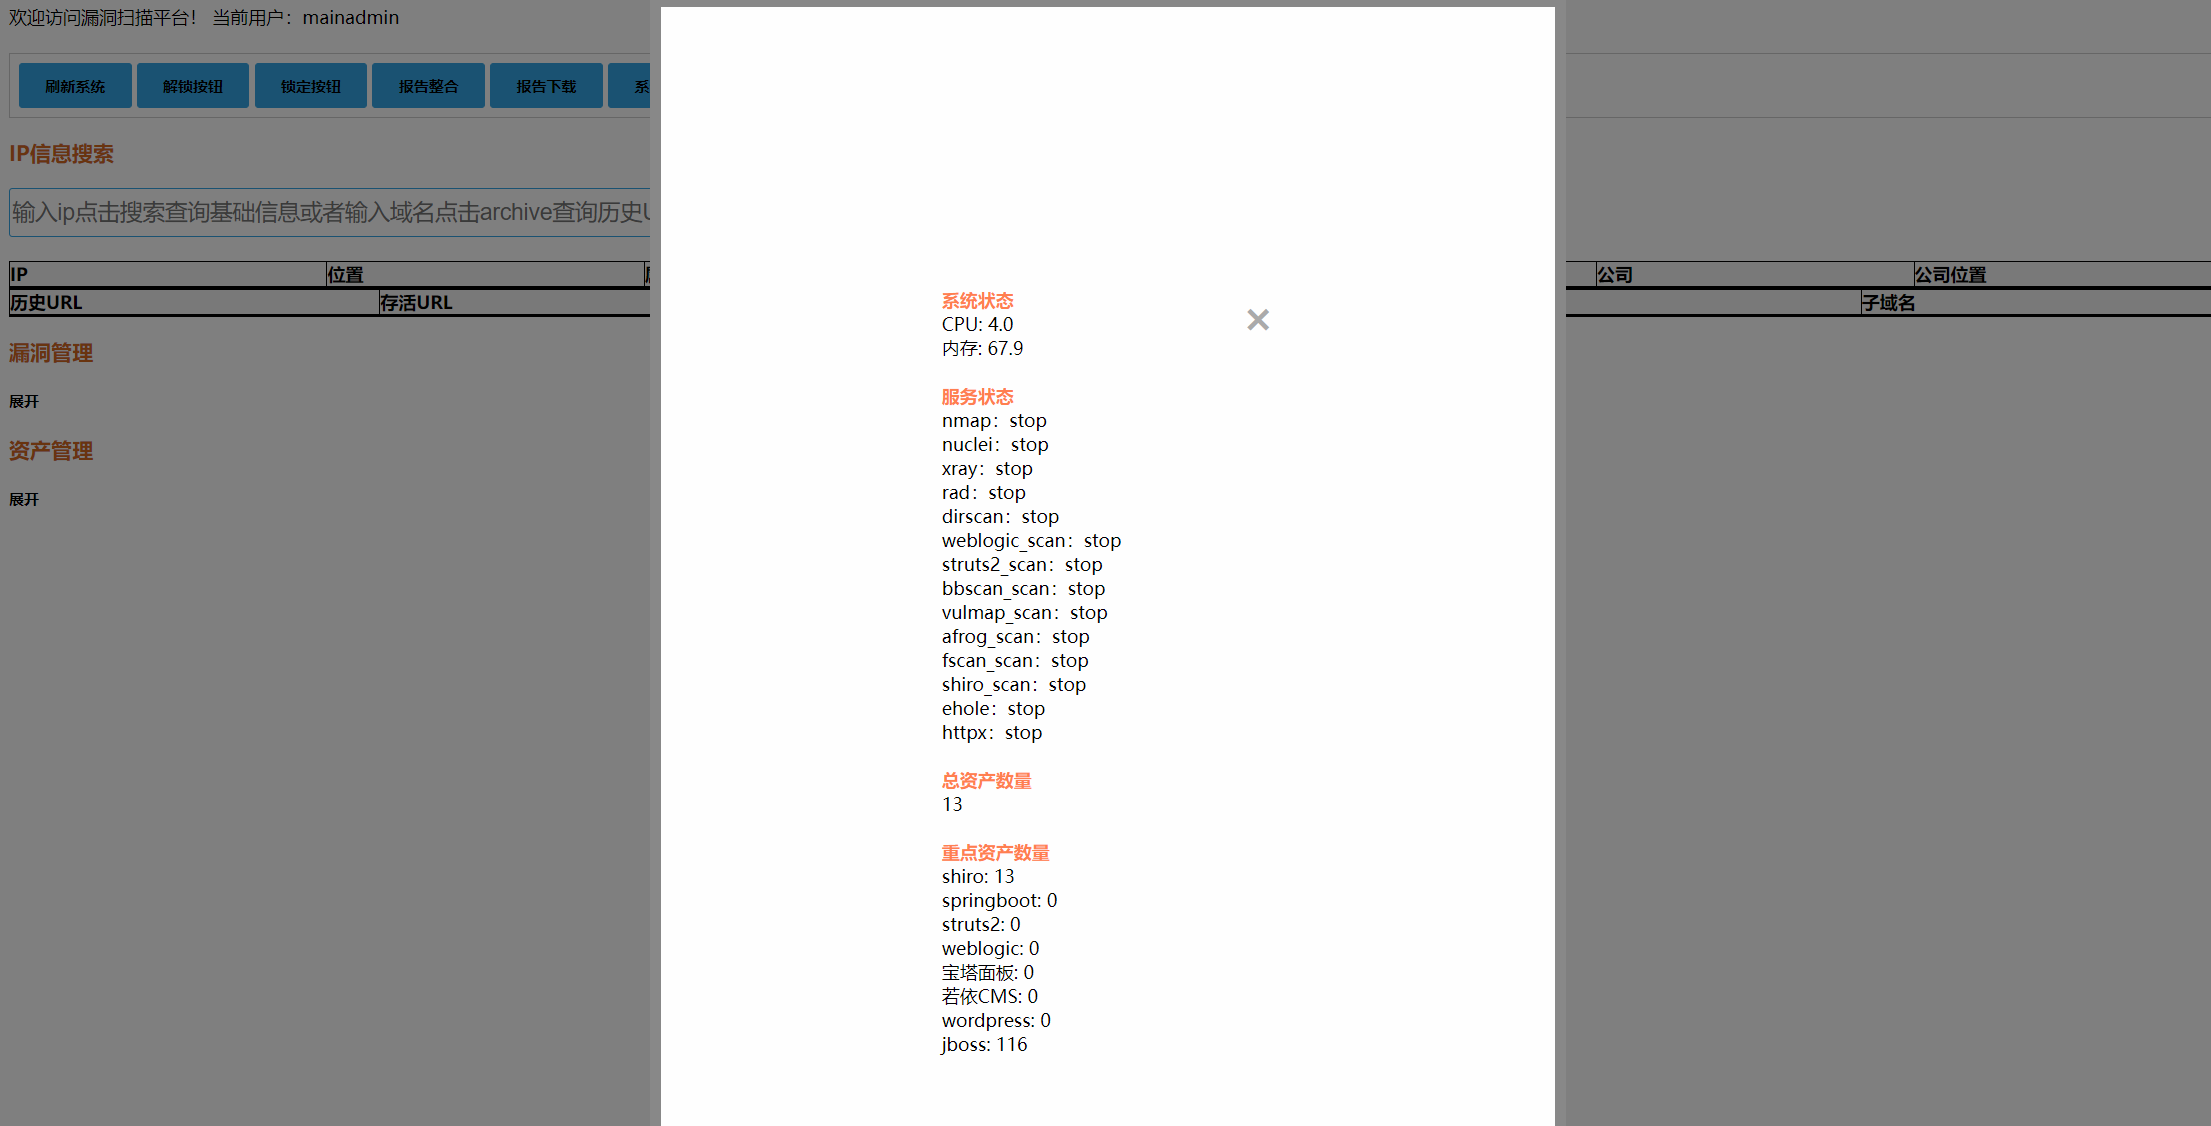
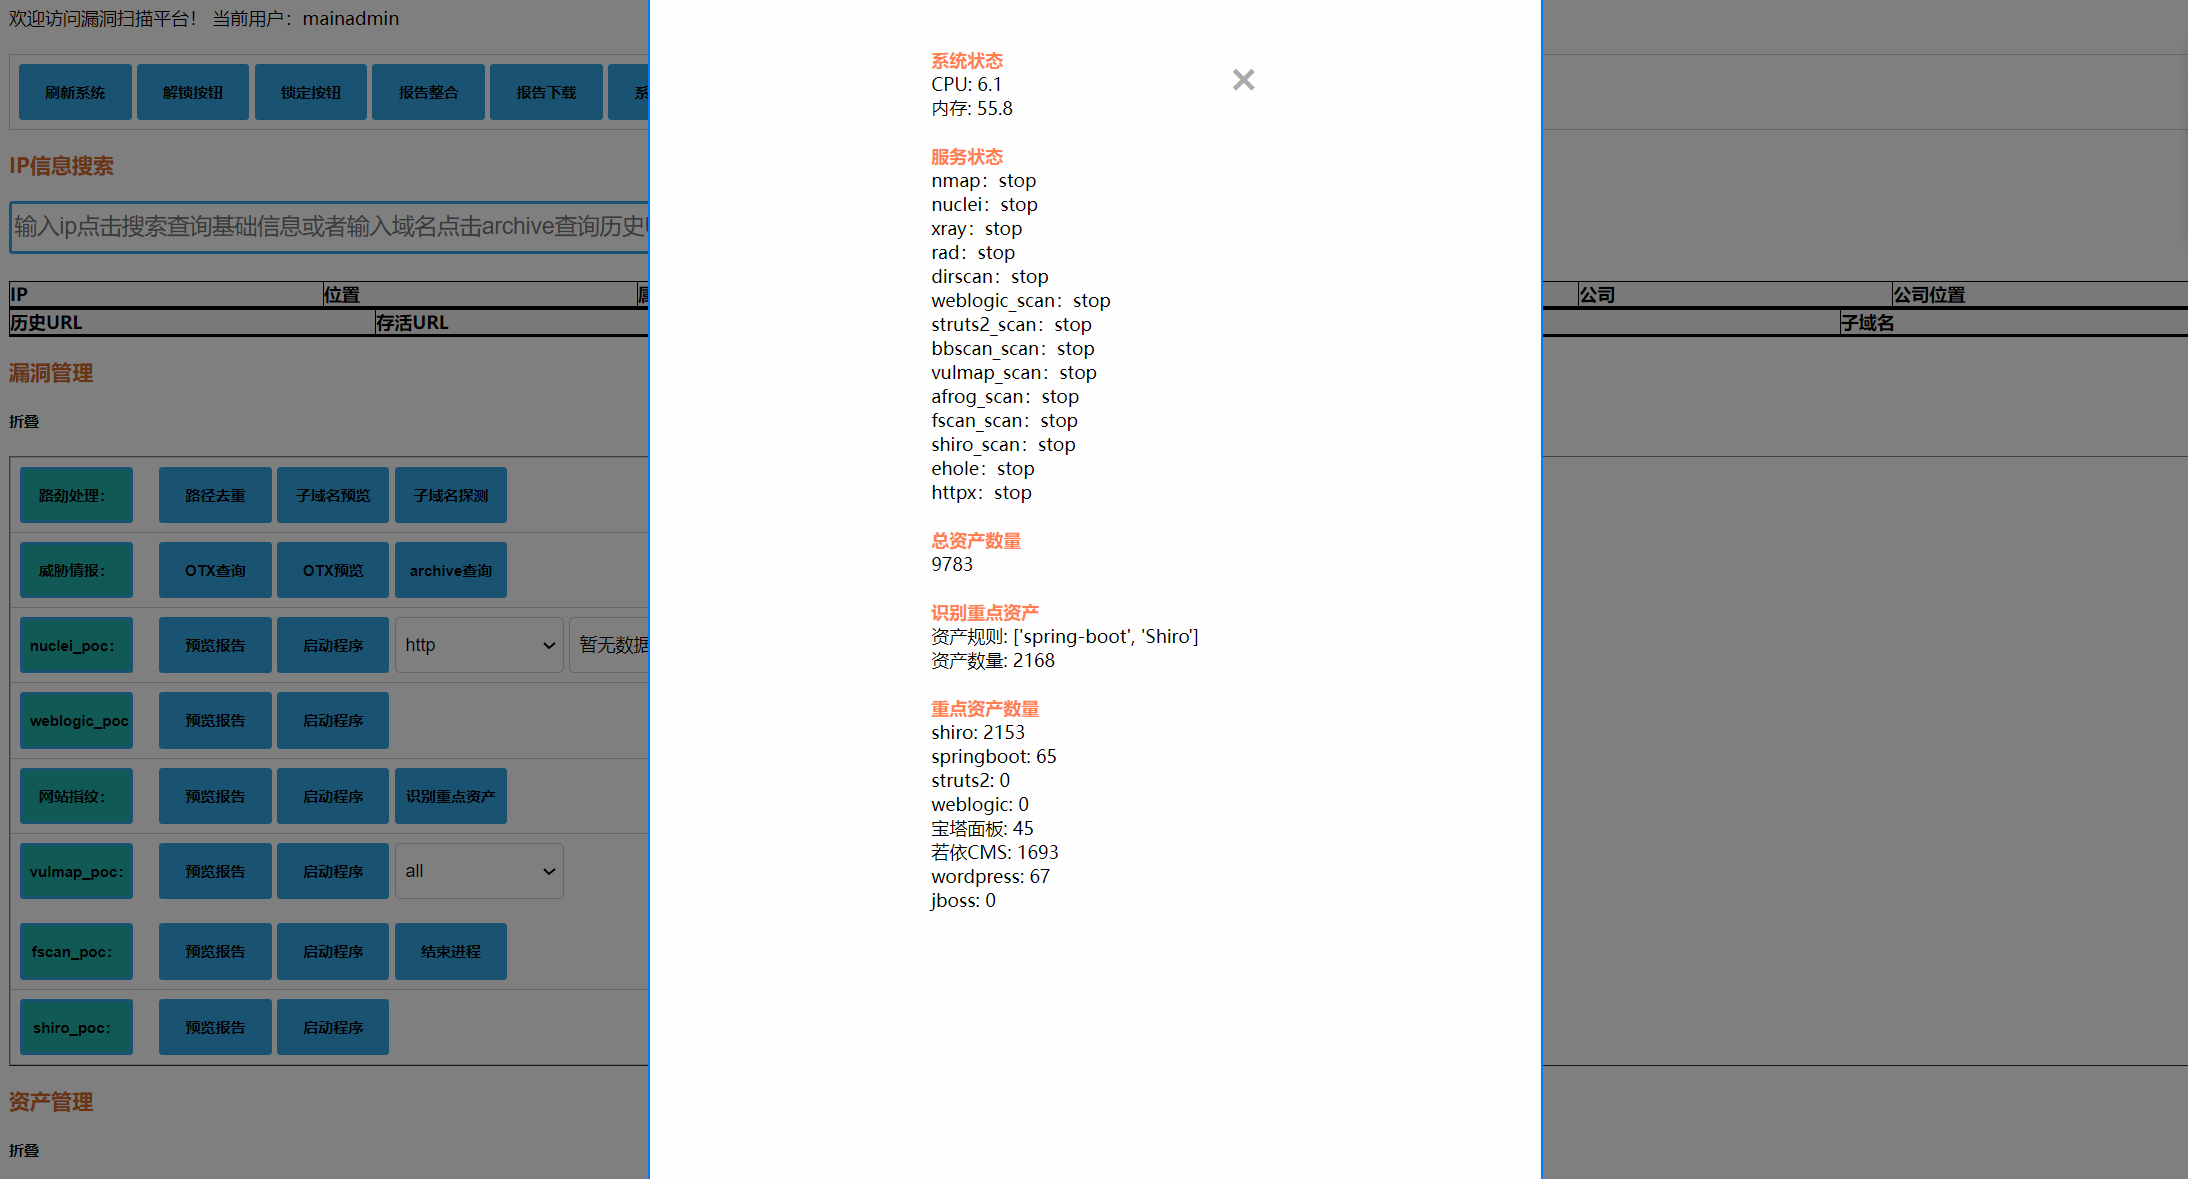
重点资产识别优化，已知问题处理

diff --git a/static/js/common.js b/static/js/common.js
@@ -1002,7 +1002,7 @@ function batchshirovulnfunc() {
 }
 
 
-//重点资产提取
+//识别重点资产
 function key_data_tiqu_func() {
     $.ajax({
         url: '/key_assets_withdraw/',
@@ -1010,18 +1010,22 @@ function key_data_tiqu_func() {
 
         success: function (res) {
             console.log(res)
-            console.log('已经按照自定义规则提取重点资产，点击文本框赋值查看最新资产')
         },
         error: function () {
             alert('内部出错')
         },
         complete: function () {
-            alert('已经按照自定义规则提取重点资产，点击文本框赋值查看最新资产')
+           
         }
+    })
+    $.getJSON("/key_assets_withdraw/",
+        function (info) {
+            alert(info.key_assets_result)
     })
 }
 
 
+// 系统管理
 function openModal() {  
     var modal = document.getElementById("modal");  
     modal.style.display = "block";
@@ -1052,10 +1056,13 @@ function openModal() {
         document.getElementById("spp23").innerHTML = info.cpuinfo;
         document.getElementById("spp24").innerHTML = info.memoryinfo;
         document.getElementById("spp25").innerHTML = info.jboss_num;
+        document.getElementById("spp26").innerHTML = info.key_asset_rule;
+        document.getElementById("spp27").innerHTML = info.current_key_asset_num;
     })
 
 }  
   
+// 关闭系统管理
 function closeModal() {  
     var modal = document.getElementById("modal");  
     modal.style.display = "none";  

diff --git a/templates/index.html b/templates/index.html
@@ -51,6 +51,9 @@
 			<span id="spp13"></span><br><br>
 			<strong style="color:coral">总资产数量</strong><br>
 			<span id="spp14"></span><br><br>
+			<strong style="color:coral">识别重点资产</strong><br>
+			<span id="spp26"></span><br>
+			<span id="spp27"></span><br><br>
 			<strong style="color:coral">重点资产数量 </strong><br>
 			<span id="spp16"></span><br>
 			<span id="spp17"></span><br>

diff --git a/scan_main_web.py b/scan_main_web.py
@@ -34,6 +34,7 @@ from config import ruoyi_rule
 from config import struts2_rule
 from config import WordPress_rule
 from config import jboss_rule
+from config import finger_list
 
 import psutil
 
@@ -369,6 +370,12 @@ def systemmanagement():
         # 计算内存占用百分比  
         memory_percent = mem.percent  
 
+        # 资产规则
+        key_asset_rule = str(finger_list)
+
+        # 当前自查数量
+        url_file_current_num = os.popen('bash ./finger.sh current_url_file_num').read()
+
         message_json = {
             "nmapstatus":nmapstatus,
             "nucleistatus":nucleistatus,
@@ -394,7 +401,9 @@ def systemmanagement():
             "WordPress_num":"wordpress: "+str(WordPress_num),
             "cpuinfo":"CPU: "+str(cpu_percent),
             "memoryinfo":"内存: "+str(memory_percent),
-            "jboss_num":"jboss: "+str(jboss_num)
+            "jboss_num":"jboss: "+str(jboss_num),
+            "key_asset_rule":"资产规则: "+str(key_asset_rule),
+            "current_key_asset_num":"资产数量: "+str(url_file_current_num)
         }
         return jsonify(message_json)
     else:
@@ -1016,20 +1025,82 @@ def startshirointerface():
         return render_template('login.html')
     
 
-#重点资产提取
+#识别重点资产
 @app.route("/key_assets_withdraw/")
 def key_assets_withdraw():
     user = session.get('username')
     if str(user) == main_username:
-        try:
-            key_url_list = basic.key_point_tiqu()
-            f = open(file='/TIP/batch_scan_domain/url.txt',mode='w')
-            for line in key_url_list:
-                f.write(str(line)+"\n")
-            f.close()
-        except Exception as e:
-            print("捕获到异常:", e)
-        return render_template('index.html')
+        eholestatus = os.popen('bash ./finger.sh ehole_status').read()
+        if "running" in eholestatus:
+            key_assets_result = "指纹识别接口正在运行中请稍后再进行识别重点资产"
+        else:
+
+            # 根据config.py中finger_list配置进行识别，可在finger_list列表中配置多个，最终写入到全局资产文件url.txt中
+            try:
+                key_url_list = basic.key_point_tiqu()
+                f = open(file='/TIP/batch_scan_domain/url.txt',mode='w')
+                for line in key_url_list:
+                    f.write(str(line)+"\n")
+                f.close()
+            except Exception as e:
+                print("捕获到异常:", e)
+
+            # 根据config.py中*_rule配置进行识别，只能配置一个关键字，最终写入到单个重点资产文件中，用于指定扫描器调用扫描
+            # ①、写入shiro文件
+            try:
+
+                shiro_file_list = basic.key_point_assets_file(Shiro_rule)
+                f_shiro = open(file='/TIP/info_scan/result/keyasset/shiro_file.txt',mode='w')
+                for shiro_line in shiro_file_list:
+                    f_shiro.write(str(shiro_line)+"\n")
+                f_shiro.close()
+            except Exception as e:
+                print("捕获到异常:", e)
+
+            # ②、写入springboot文件
+            try:
+
+                springboot_file_list = basic.key_point_assets_file(SpringBoot_rule)
+                f_springboot = open(file='/TIP/info_scan/result/keyasset/springboot_file.txt',mode='w')
+                for springboot_line in springboot_file_list:
+                    f_springboot.write(str(springboot_line)+"\n")
+                f_springboot.close()
+            except Exception as e:
+                print("捕获到异常:", e)
+
+
+             # ③、写入struts2文件
+            try:
+
+                struts2_file_list = basic.key_point_assets_file(struts2_rule)
+                f_struts2 = open(file='/TIP/info_scan/result/keyasset/struts2_file.txt',mode='w')
+                for struts2_line in struts2_file_list:
+                    f_struts2.write(str(struts2_line)+"\n")
+                f_struts2.close()
+            except Exception as e:
+                print("捕获到异常:", e)
+
+
+              # ④、写入weblogic文件
+            try:
+
+                weblogic_file_list = basic.key_point_assets_file(weblogic_rule)
+                f_weblogic = open(file='/TIP/info_scan/result/keyasset/weblogic_file.txt',mode='w')
+                for weblogic_line in weblogic_file_list:
+                    f_weblogic.write(str(weblogic_line)+"\n")
+                f_weblogic.close()
+            except Exception as e:
+                print("捕获到异常:", e)
+
+
+            key_assets_result = "已成功识别出重点资产"
+
+        
+        message_json = {
+            "key_assets_result":key_assets_result
+        }
+        return jsonify(message_json)
+        
     else:
         return render_template('login.html')
 

diff --git a/basic.py b/basic.py
@@ -569,3 +569,52 @@ def key_point_assets_num(assets_finger_list):
         assets_len = len(finger_url_list_final_uniq)
     
     return assets_len
+
+
+
+
+# 识别重点资产存入文件
+def key_point_assets_file(assets_finger_list):
+    # 提取通过自定义列表过滤出的目标，并提取这些目标的关键字作为字典，存入列表中
+    filter_list_result = []
+    try:
+        for i in assets_finger_list:
+            result = os.popen('bash /TIP/info_scan/finger.sh finger_filter_shell'+' '+i).read()
+            filter_list_result.append(result)
+    except Exception as e:
+        print("捕获到异常:", e)
+
+    try:
+        f2 = open(file='/TIP/info_scan/result/finger_filter_text.txt', mode='w')
+        for j in filter_list_result:
+            j1 = j.replace("[","")
+            j2 = j1.replace("]","")
+            j3 = j2.replace("|","")
+            f2.write(str(j3))
+        f2.close()
+    except Exception as e:
+        print("捕获到异常:", e)
+    
+    try:
+        filter_list_result_final = []
+        f3 = open("/TIP/info_scan/result/finger_filter_text.txt",encoding='utf-8')
+        for k in f3.readlines():
+            #页面显示优化
+            pattern = re.compile(r'\x1b\[[0-9;]*m')
+            clean_text = pattern.sub('', k)
+            clean_text_1 = clean_text.replace("\x1b38;2;237;64;35m ","")
+            clean_text_2 = clean_text_1.replace(" \x1b0m","")
+            filter_list_result_final.append(clean_text_2.strip())
+            
+    except Exception as e:
+        print("捕获到异常:", e)
+
+    try:
+        finger_url_list_final = []
+        for item in filter_list_result_final:
+            url = item.split()[0]
+            finger_url_list_final.append(url)
+    except:
+        pass
+    finger_url_list_final_uniq = list(set(finger_url_list_final))
+    return finger_url_list_final_uniq
